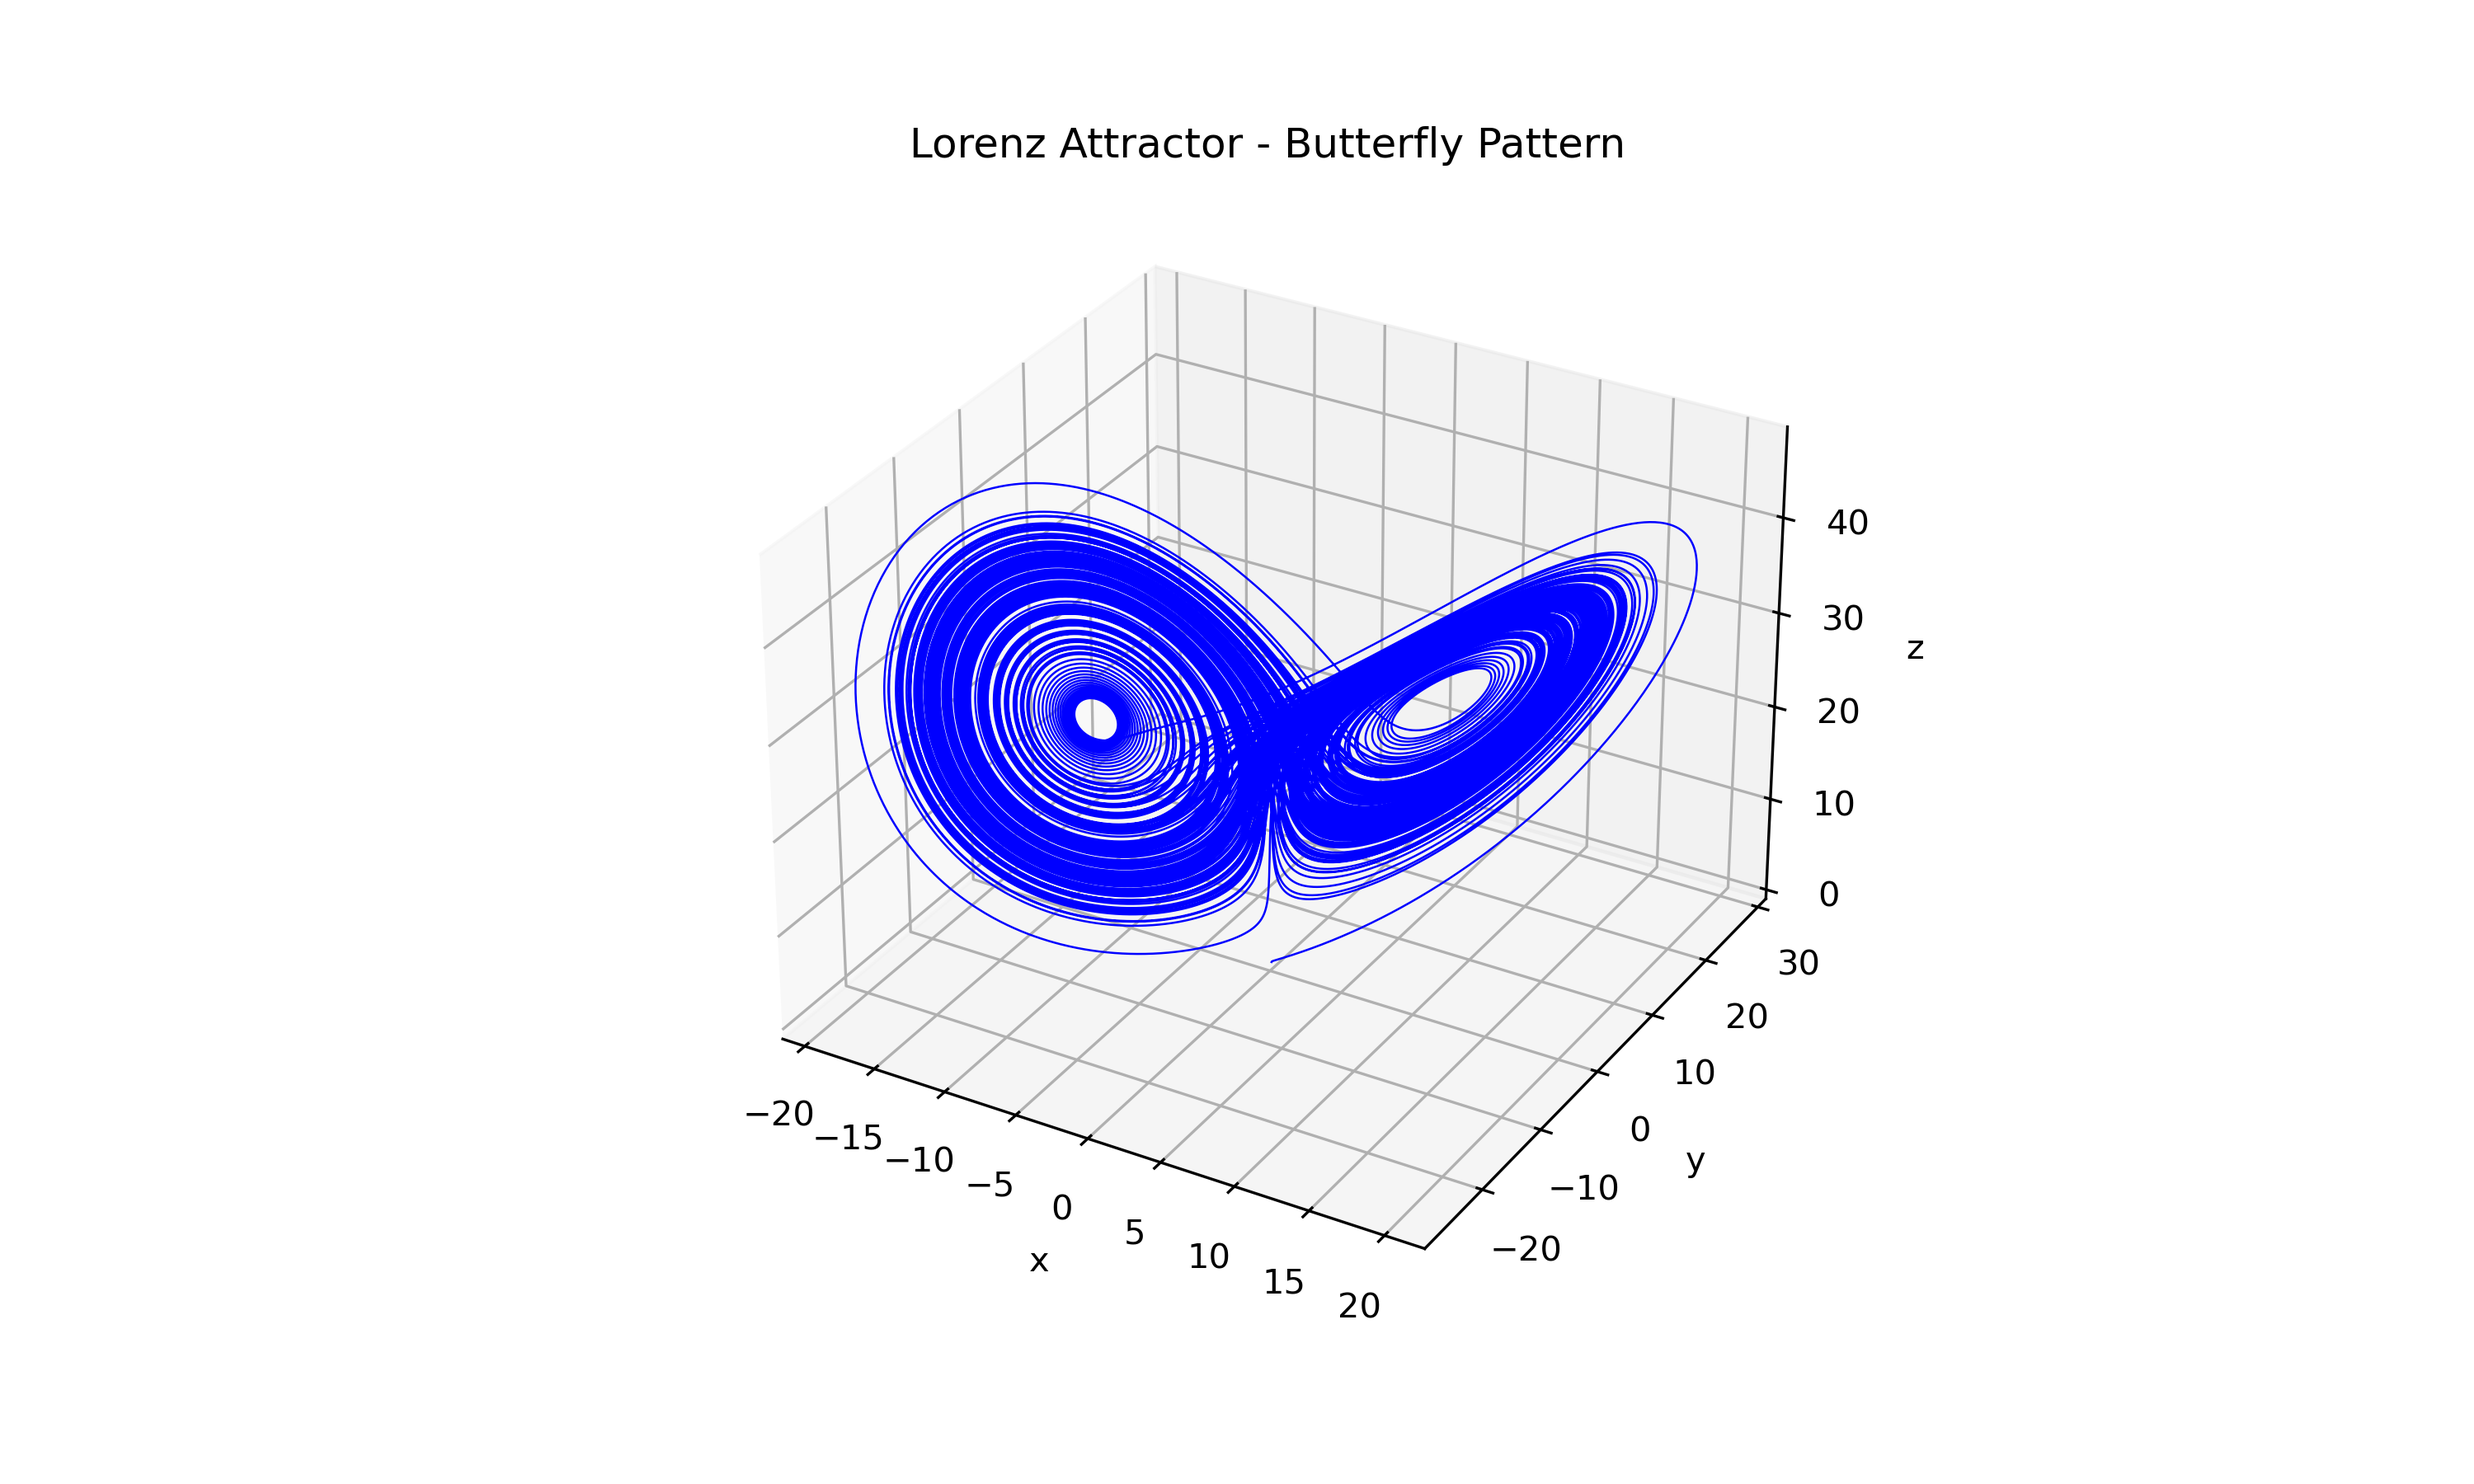
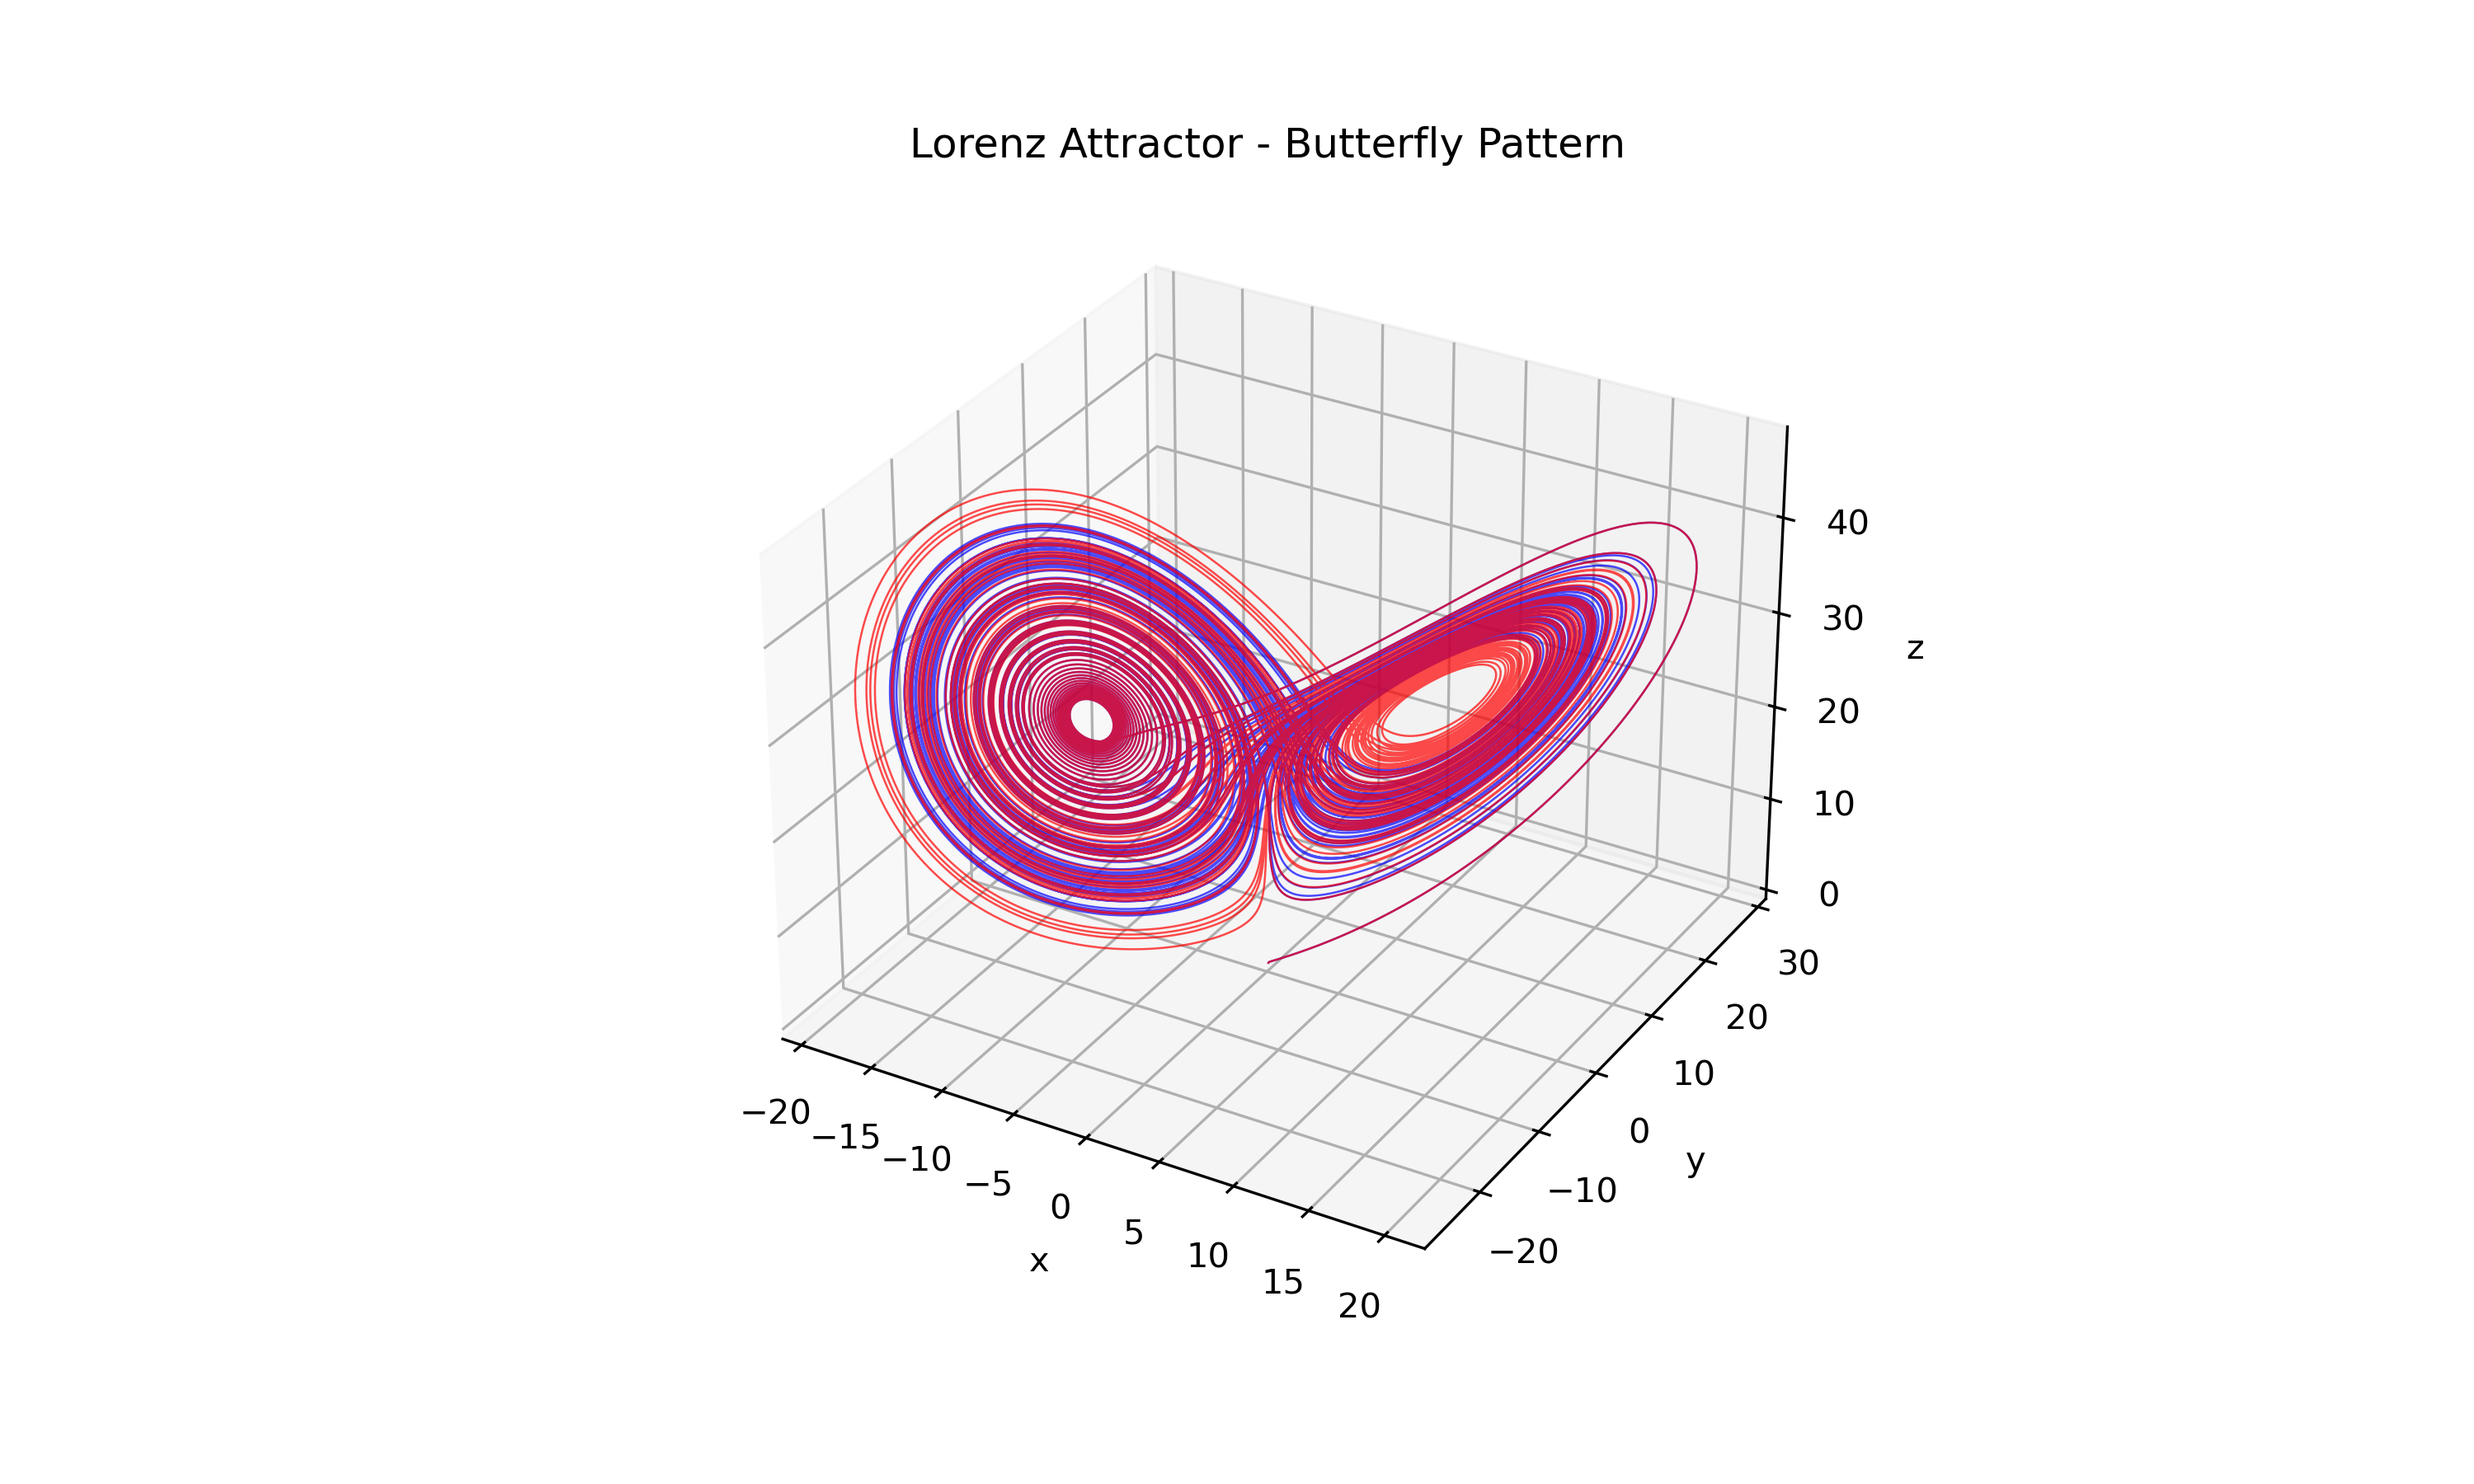
lorentz revisit

diff --git a/a_dynamics/lorentz.py b/a_dynamics/lorentz.py
@@ -22,26 +22,38 @@ x0_all = []
 x1_all = []
 x2_all = []
 
+z0_all = []
+z1_all = []
+z2_all = []
+
 t = 0
 dt = 1e-3
 
 x = np.array([0.1,0,0])
+z = np.array([0.1+1e-3,0,0])
 
 while True:
     x0_all.append(x[0])
     x1_all.append(x[1])
     x2_all.append(x[2])
+    z0_all.append(z[0])
+    z1_all.append(z[1])
+    z2_all.append(z[2])
+    
     x = rk4(func=f_lorentz, x=x, h=dt)
+    z = rk4(func=f_lorentz, x=z, h=dt)
     
     t = t + dt
-    if t > 200.0:
+    if t > 100.0:
         break
 
 
 # 3D plot of the Lorenz attractor
 fig = plt.figure(figsize=(10, 6))
 ax = fig.add_subplot(111, projection='3d')
-ax.plot(x0_all, x1_all, x2_all, color='blue', lw=0.6)
+
+ax.plot(x0_all, x1_all, x2_all, color='blue', lw=0.6, alpha=0.7, label="Trajectory 1")
+ax.plot(z0_all, z1_all, z2_all, color='red', lw=0.6, alpha=0.7, label="Trajectory 2")
 
 # Labels and title
 ax.set_xlabel("x")
